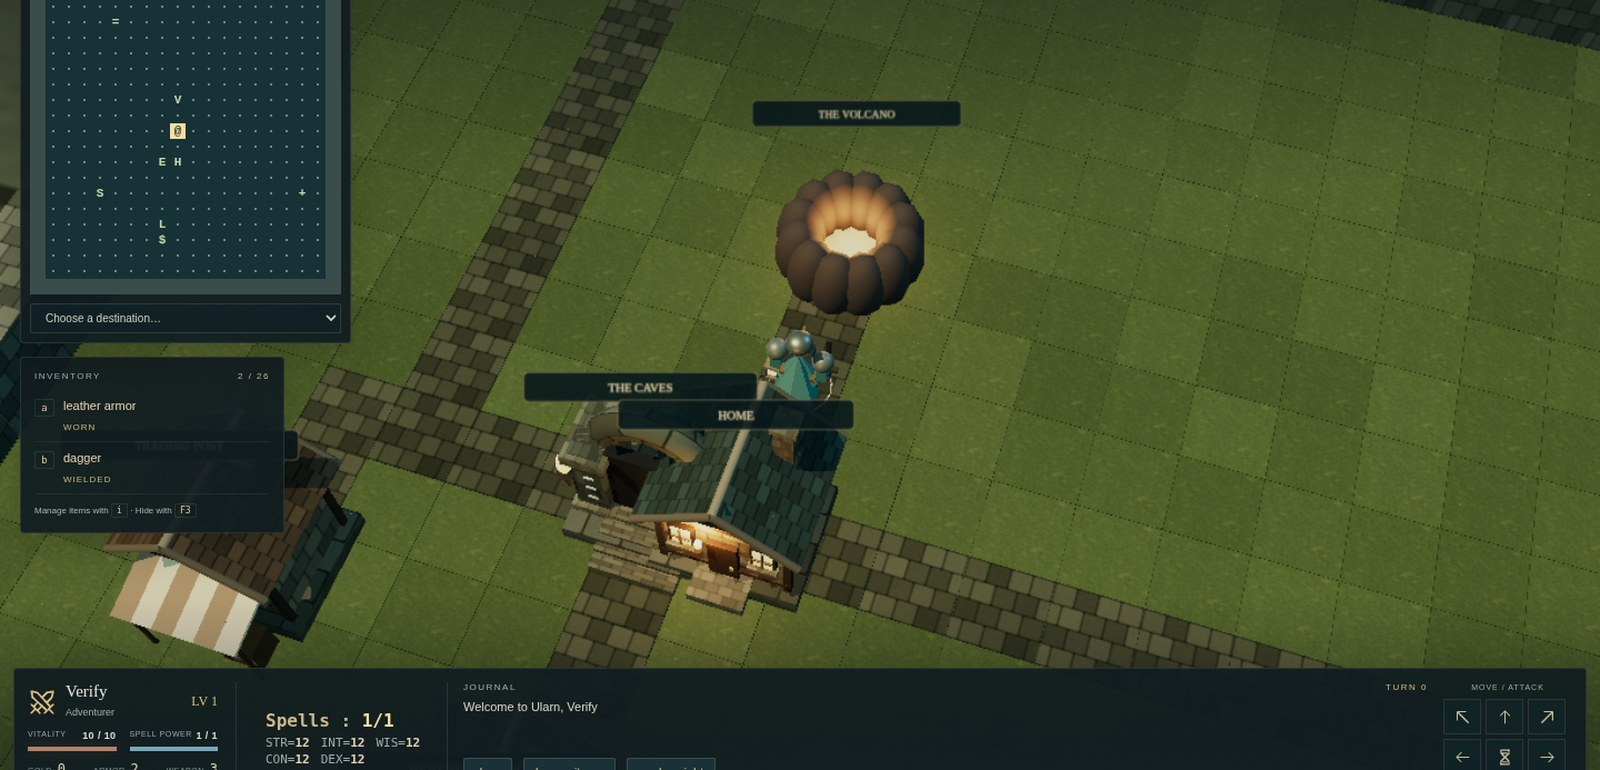
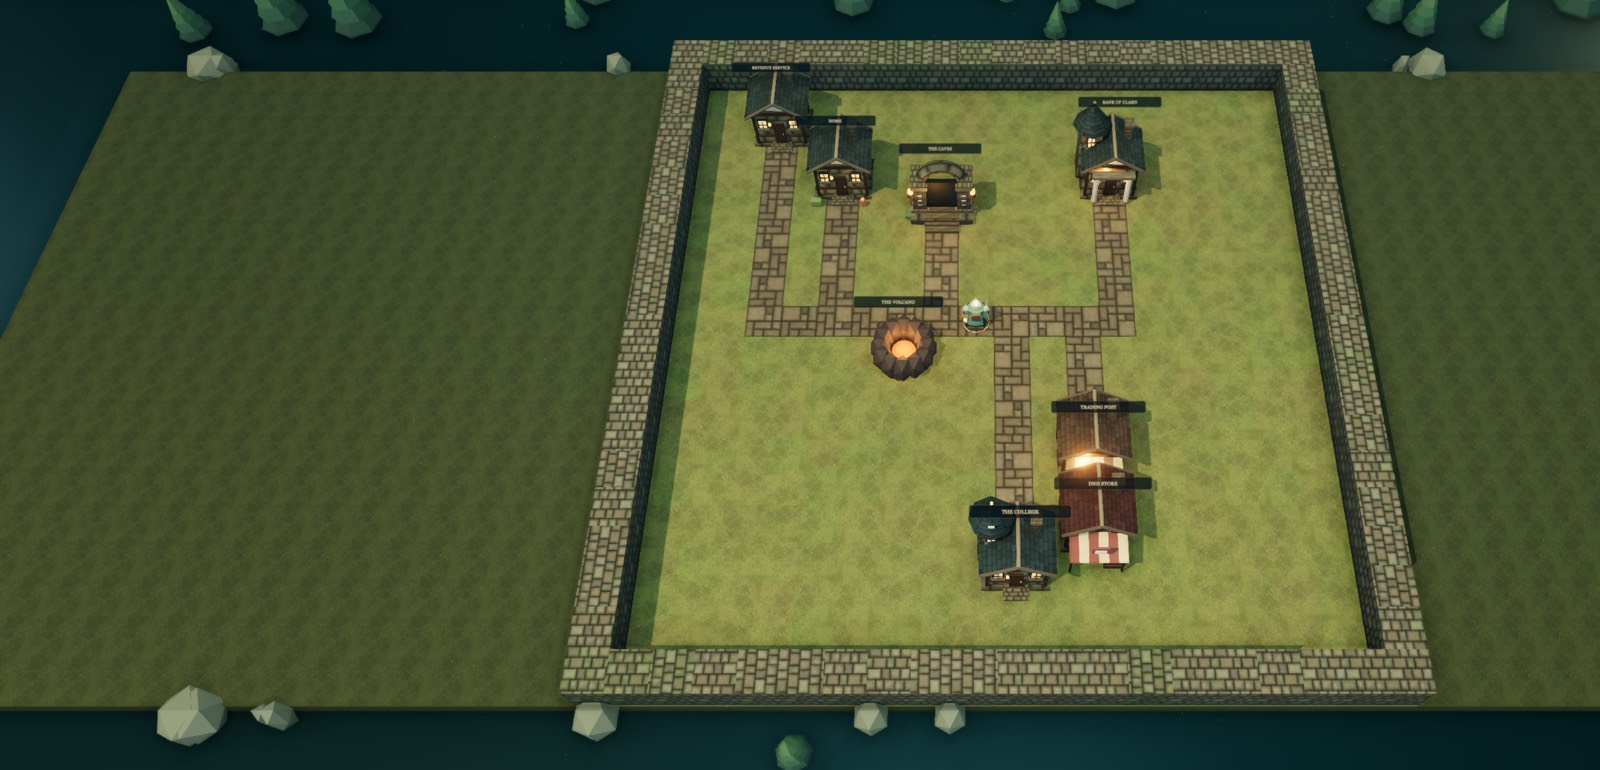
Refresh site screenshots and fix full-run test failures (1.5.0)
Recapture the website from the 1.5.0 build in Cinematic: town, caves,
and two new gallery scenes (deep halls and the volcano), the wide town
fallback and the social card. The home and about pages describe the
next-step prompt, controller support, the new terrain and the
orchestral score, and the home title drops "Free Roguelike".

Merge the title screen's six preview buildings by shared material, so
the title draws 91 calls instead of 183-190 and meets its budget. Guard
canvas use against a missing document object as well as a stubbed one.
The footstep check now waits for the footfall instead of expecting it
during paint().

diff --git a/public/about/index.html b/public/about/index.html
@@ -95,9 +95,9 @@
         <figure class="gallery-feature">
           <img
             src="/screenshots/town.jpg"
-            width="1440"
-            height="1000"
-            alt="Ularn town gameplay with adventurer, cave entrance, inventory, and symbol map"
+            width="1600"
+            height="900"
+            alt="Ularn town square with the adventurer between the cave entrance, the volcano shaft and the shops"
             loading="lazy"
           />
           <figcaption>Surface town — the last quiet place before the caves.</figcaption>
@@ -124,7 +124,7 @@
         <p class="section-kicker">03 / Every step matters</p>
         <h2 id="controls-title">The controls you’ll use most.</h2>
         <p class="support">
-          The on-screen action bar and direction pad work alongside the keyboard. Camera rotation keeps the compass directions unchanged.
+          The on-screen action bar and direction pad work alongside the keyboard and a game controller. A prompt under your hero always shows the next step and its key. Camera rotation keeps the compass directions unchanged.
         </p>
         <div class="control-table-wrap">
           <table class="control-table">
@@ -134,6 +134,9 @@
             </thead>
             <tbody>
               <tr><th scope="row">Move or attack</th><td>Arrow keys or the on-screen direction pad</td></tr>
+              <tr><th scope="row">Take the next step</th><td>Click the prompt under your hero, or use its key</td></tr>
+              <tr><th scope="row">Explore the floor automatically</th><td><kbd>X</kbd> or the Explore button; it stops when a creature appears</td></tr>
+              <tr><th scope="row">Play with a controller</th><td>Stick or d-pad moves and attacks, A takes the next step, X explores, Y opens your pack, Menu pauses</td></tr>
               <tr><th scope="row">Travel to an explored tile</th><td>Click the world or symbol map; travel stops near danger</td></tr>
               <tr><th scope="row">Wait one turn</th><td><kbd>.</kbd></td></tr>
               <tr><th scope="row">Enter a building or landmark</th><td>Contextual action or <kbd>E</kbd></td></tr>
@@ -221,7 +224,7 @@
       <section class="section reveal" aria-labelledby="merged-presentation-title">
         <p class="section-kicker">Graphics and sound</p>
         <h2 id="merged-presentation-title">A clearer view of the caves.</h2>
-        <div class="prose"><p>All 66 creatures, including the loot goblin, have animated 3D models. Detailed swords, class-specific heroes, floor-loot artwork and hover cards keep equipment and enemies readable. Use Expand on the compact symbol map to plan a route across the explored floor; drag to pan and use the zoom controls.</p><p>Hold an arrow key or direction-pad button to keep moving. Releasing it or opening a menu stops movement. Solo lemmings are capped, cannot multiply, and fall in one melee attack; clearing one advances into its tile. Other enemies and known hazards stop automatic travel.</p><p>Auto graphics adapts resolution for active play. Balanced keeps mapped caves and lighter rendering; Cinematic adds bloom, ambient occlusion and edge smoothing. Music starts on Play or Continue, with quiet regional arrangements and realistic effects. The menu provides music/effects volumes, and both choices persist. Menus soften the score; hidden windows pause audio and rendering.</p><p>Completed solo expeditions save locally and sync their scores when online. The Scoreboard menu offers global records and this device’s records; online rooms retain their verified leaderboard.</p></div>
+        <div class="prose"><p>All 66 creatures, including the loot goblin, have animated 3D models. Detailed swords, class-specific heroes, floor-loot artwork and hover cards keep equipment and enemies readable. Floors, walls, grass and slate roofs are painted in fine detail, the volcano is cracked basalt, and every throne, altar, mirror and trap looks like what it is. Use Expand on the compact symbol map to plan a route across the explored floor; drag to pan and use the zoom controls.</p><p>Hold an arrow key or direction-pad button to keep moving. Releasing it or opening a menu stops movement. Solo lemmings are capped, cannot multiply, and fall in one melee attack; clearing one advances into its tile. Other enemies and known hazards stop automatic travel.</p><p>Auto graphics adapts resolution for active play. Balanced keeps mapped caves and lighter rendering; Cinematic adds bloom, ambient occlusion and edge smoothing. Music starts on Play or Continue: an original orchestral score with its own theme for the town, the caves, the deep halls and the volcano, which rises as danger nears. The menu provides music/effects volumes, and both choices persist. Menus soften the score; hidden windows pause audio and rendering.</p><p>Completed solo expeditions save locally and sync their scores when online. The Scoreboard menu offers global records and this device’s records; online rooms retain their verified leaderboard.</p></div>
       </section>
 
       <section class="section reveal" aria-labelledby="larn-title">

diff --git a/index.html b/index.html
@@ -4,7 +4,7 @@
     <meta charset="UTF-8" />
     <meta name="viewport" content="width=device-width, initial-scale=1" />
     <meta name="theme-color" content="#0c1417" />
-    <title>Ularn 3D — The Caves Below | Free Roguelike</title>
+    <title>Ularn 3D — The Caves Below</title>
     <meta
       name="description"
       content="Ularn 3D is a free turn-based dungeon crawler in an overhead 3D world. Descend twenty floors, choose among eight classes, play in your browser, or download for Windows."
@@ -20,7 +20,7 @@
     <script src="/site/site.js" defer></script>
     <meta property="og:type" content="website" />
     <meta property="og:site_name" content="Ularn 3D — The Caves Below" />
-    <meta property="og:title" content="Ularn 3D — The Caves Below | Free Roguelike" />
+    <meta property="og:title" content="Ularn 3D — The Caves Below" />
     <meta
       property="og:description"
       content="A free turn-based dungeon crawler with eight classes and twenty floors. Play online or download the Windows edition."
@@ -34,7 +34,7 @@
       content="Ularn 3D overhead town view with symbol map, inventory, and adventure controls"
     />
     <meta name="twitter:card" content="summary_large_image" />
-    <meta name="twitter:title" content="Ularn 3D — The Caves Below | Free Roguelike" />
+    <meta name="twitter:title" content="Ularn 3D — The Caves Below" />
     <meta
       name="twitter:description"
       content="Explore twenty floors with eight classes in a free turn-based dungeon crawler. Play online or download for Windows."
@@ -79,6 +79,8 @@
             "screenshot": [
               "https://ularn-3d.vercel.app/screenshots/town.jpg",
               "https://ularn-3d.vercel.app/screenshots/dungeon.jpg",
+              "https://ularn-3d.vercel.app/screenshots/halls.jpg",
+              "https://ularn-3d.vercel.app/screenshots/volcano.jpg",
               "https://ularn-3d.vercel.app/social/ularn.png"
             ],
             "image": "https://ularn-3d.vercel.app/social/ularn.png",
@@ -129,9 +131,9 @@
           <figure>
             <img
               src="/screenshots/town.jpg"
-              width="1280"
-              height="720"
-              alt="Ularn 3D town view with adventurer near home, trading post, caves, and volcano"
+              width="1600"
+              height="900"
+              alt="Ularn 3D town square with the adventurer between the cave entrance, the volcano shaft, home, the College and the shops"
               loading="lazy"
             />
             <figcaption>Prepare above. Shops, supplies, and a way into the caves.</figcaption>
@@ -139,12 +141,32 @@
           <figure>
             <img
               src="/screenshots/dungeon.jpg"
-              width="1280"
-              height="720"
-              alt="Ularn 3D dungeon room with stairs, stone walls, and a waiting creature"
+              width="1600"
+              height="900"
+              alt="Ularn 3D flagstone cave room with a fountain, stairs down, a chest, loot, and a jackal, snake and troglodyte"
               loading="lazy"
             />
             <figcaption>Explore below. Creatures, artifacts, and twenty floors to discover.</figcaption>
+          </figure>
+          <figure>
+            <img
+              src="/screenshots/halls.jpg"
+              width="1600"
+              height="900"
+              alt="Ularn 3D deep hall with a jewelled throne, a candlelit altar, a marble statue, a mirror, a teleport trap, a gelatinous cube and the glowing cure potion"
+              loading="lazy"
+            />
+            <figcaption>Go deeper. Thrones, altars and traps, and the cure waiting somewhere below.</figcaption>
+          </figure>
+          <figure>
+            <img
+              src="/screenshots/volcano.jpg"
+              width="1600"
+              height="900"
+              alt="Ularn 3D volcano floor of cracked basalt glowing with lava, with a red dragon, a bronze dragon and a sphere of annihilation"
+              loading="lazy"
+            />
+            <figcaption>Brave the volcano. Five fiery floors beneath the deepest cave.</figcaption>
           </figure>
         </div>
       </section>
@@ -191,7 +213,7 @@
           <a href="/downloads/Ularn.windows.exe">download for Windows</a>,
           or read the <a href="/about/">field guide</a>.
         </p>
-        <img src="/screenshots/town-wide.jpg" width="1881" height="1200" alt="Ularn 3D town preview screenshot" />
+        <img src="/screenshots/town-wide.jpg" width="1600" height="770" alt="Ularn 3D walled town with its shops, home, the cave entrance and the volcano shaft" />
       </div>
     </noscript>
     <script type="module" src="/src/home-preview.js"></script>

diff --git a/tests/hud-feedback.spec.js b/tests/hud-feedback.spec.js
@@ -66,32 +66,33 @@ test("every spell and weapon has a distinct sound and voices are released", asyn
   await expect(page.locator("#sound")).toBeVisible();
   await expect(page.locator("#sound")).toHaveAttribute("aria-pressed", "true");
   await expect.poll(() => page.evaluate(() => window.ularnAudio?.music?.kind || "")).toBe("town");
-  const stepped = await page.evaluate(() => {
-    const heard = [];
+  // The footstep sounds when the foot plants in the render loop, a moment
+  // after the move, so listen until then rather than only during paint().
+  const moved = await page.evaluate(() => {
+    const heard = (window.__heardSteps = []);
     const original = window.ularnAudio.play.bind(window.ularnAudio);
+    window.__restorePlay = () => { window.ularnAudio.play = original; };
     window.ularnAudio.play = (kind, detail) => {
       heard.push(kind);
       return original(kind, detail);
     };
-    try {
-      const here = ularn.snapshot();
-      const next = here.tiles.find(
-        (tile) =>
-          !tile.wall &&
-          !tile.closed &&
-          Math.max(Math.abs(tile.x - here.x), Math.abs(tile.y - here.y)) === 1,
-      );
-      if (!next) return { heard, moved: false };
-      player.x = next.x;
-      player.y = next.y;
-      paint();
-      return { heard, moved: true };
-    } finally {
-      window.ularnAudio.play = original;
-    }
+    const here = ularn.snapshot();
+    const next = here.tiles.find(
+      (tile) =>
+        !tile.wall &&
+        !tile.closed &&
+        Math.max(Math.abs(tile.x - here.x), Math.abs(tile.y - here.y)) === 1,
+    );
+    if (!next) return false;
+    player.x = next.x;
+    player.y = next.y;
+    paint();
+    return true;
   });
-  expect(stepped.moved).toBe(true);
-  expect(stepped.heard).toEqual(["step"]);
+  expect(moved).toBe(true);
+  await expect.poll(() => page.evaluate(() => window.__heardSteps.length)).toBeGreaterThan(0);
+  await page.waitForTimeout(300);
+  expect(await page.evaluate(() => { window.__restorePlay(); return window.__heardSteps; })).toEqual(["step"]);
   const result = await page.evaluate(async () => {
     const { GameAudio, spellProfile, weaponProfile, weaponSoundKeys } = await import("/src/audio.js");
     const profiles = spelname.map((name, id) => JSON.stringify(spellProfile({name, id})));

diff --git a/src/world.js b/src/world.js
@@ -1746,6 +1746,7 @@ export class World {
             0.025,
             0.99,
           );
+    const town = new THREE.Group();
     for (const [id, x, z, s] of [
       [69, -2, 4, 1.4],
       [12, 1, 0, 1.25],
@@ -1755,11 +1756,23 @@ export class World {
       [54, 8, -6, 1.5],
     ]) {
       const b = building(id);
-      batch(b);
       b.position.set(x, 0, z);
       b.scale.setScalar(s);
-      this.props.add(b);
+      town.add(b);
     }
+    // The title never fades or cuts away a building, so all six merge by
+    // shared material: one draw per material instead of one per building.
+    // Labels keep their placement by baking each building's transform first.
+    town.updateMatrixWorld(true);
+    const labels = [];
+    town.traverse((o) => { if (o.isSprite) labels.push(o); });
+    for (const sprite of labels) {
+      sprite.matrixWorld.decompose(sprite.position, sprite.quaternion, sprite.scale);
+      sprite.removeFromParent();
+    }
+    batch(town);
+    labels.forEach((sprite) => town.add(sprite));
+    this.props.add(town);
     for (let i = 0; i < 100; i++) {
       const x = noise(i, 9) * 25 - 10,
         y = noise(i, 10) * 21 - 10;

diff --git a/src/combat-effects.js b/src/combat-effects.js
@@ -14,7 +14,7 @@ const SPOKES = Float32Array.from({ length: BURST * 3 }, (_, i) => {
 let glowTexture = null;
 // Without a DOM (unit tests building the pool) the flash is a plain soft quad.
 const softGlow = () => {
-  if (glowTexture || typeof document?.createElement !== "function") return glowTexture;
+  if (glowTexture || typeof document === "undefined" || typeof document.createElement !== "function") return glowTexture;
   const canvas = document.createElement("canvas");
   canvas.width = canvas.height = 64;
   const ctx = canvas.getContext("2d"), gradient = ctx.createRadialGradient(32, 32, 0, 32, 32, 32);

diff --git a/src/models.js b/src/models.js
@@ -56,7 +56,7 @@ function letterTexture(letter, ink, paper) {
 let mirrorGlassMaterial;
 function mirrorGlass() {
   if (mirrorGlassMaterial) return mirrorGlassMaterial;
-  if (typeof document?.createElement !== "function") return (mirrorGlassMaterial = matBasic(0xa9c2c7, { toneMapped: false }));
+  if (typeof document === "undefined" || typeof document.createElement !== "function") return (mirrorGlassMaterial = matBasic(0xa9c2c7, { toneMapped: false }));
   const canvas = document.createElement("canvas");
   canvas.width = 64;
   canvas.height = 128;
